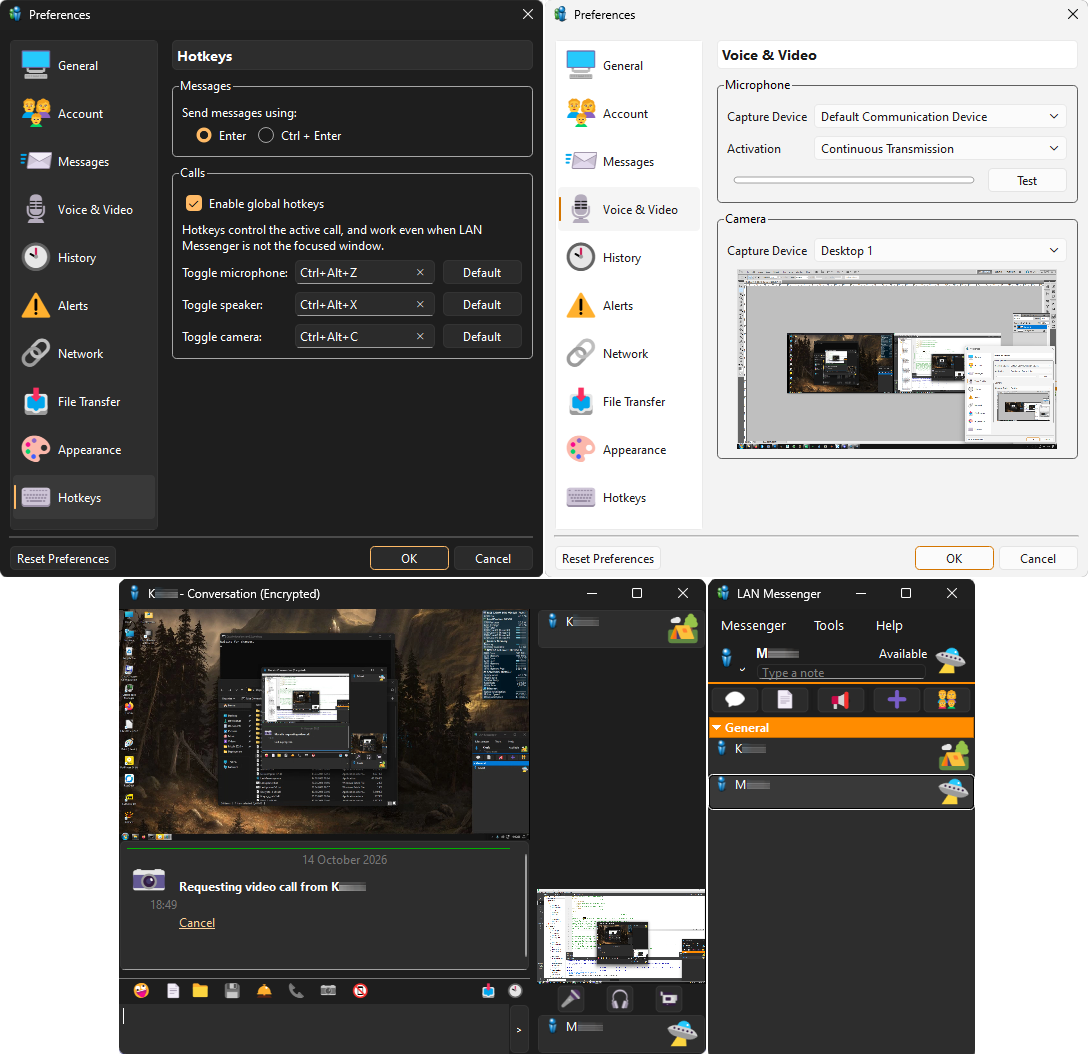
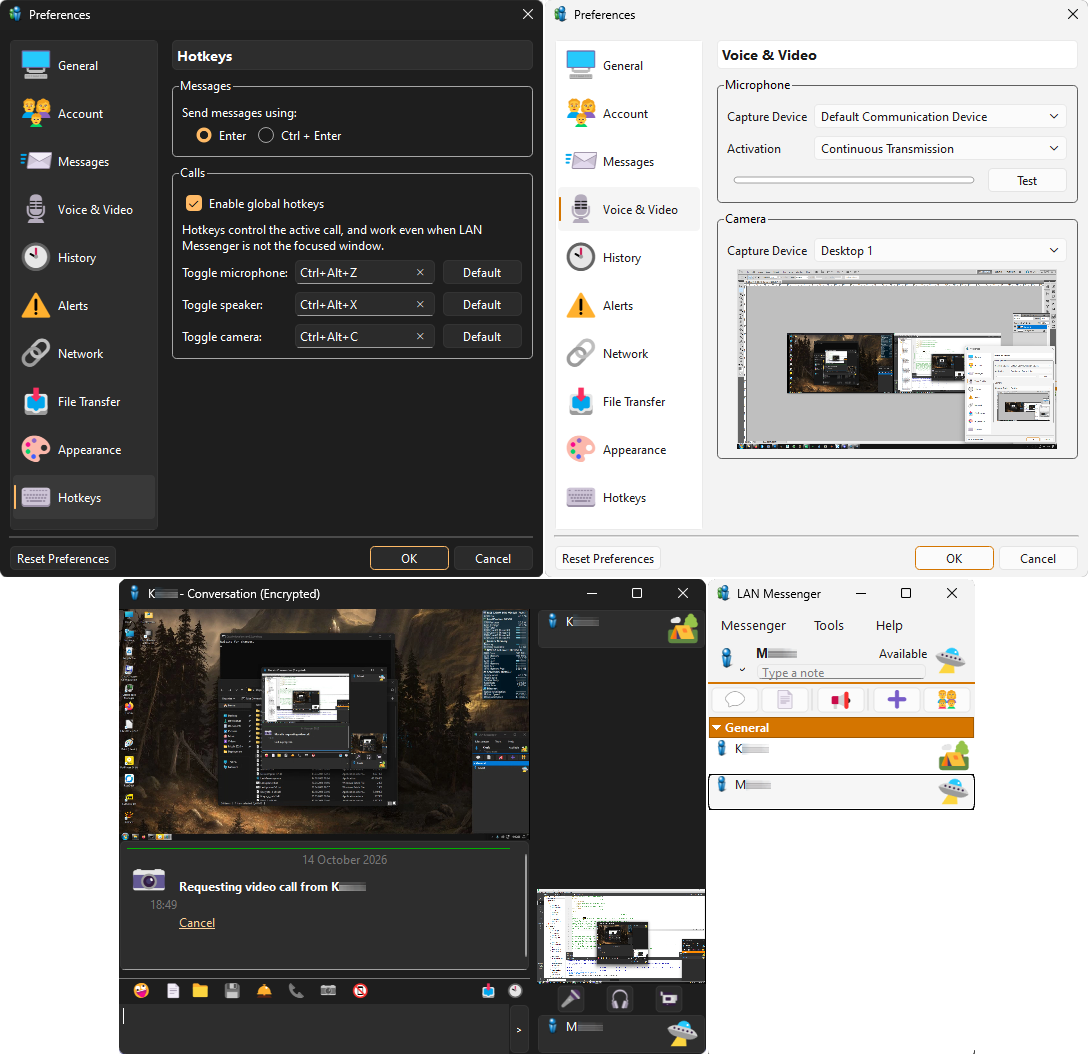
Readme update

Changed region(s): [[0.625, 0.5465, 0.9062, 1.0]]

diff --git a/README.md b/README.md
@@ -4,8 +4,15 @@ Notes
 ===========================
 Project related todo list and known issues are written down in main cmakelists.
 
-I would like to maintain compatibility between this and old versions, while adding more in the future. 
+I would like to maintain compatibility between this and mainline versions, while adding more in the future. 
 
+Tips & Tricks
+============================
+* Wrap UNC paths within quotes if they include spaces: "\\SambaShare\Folder\S p a c e.png"
+* Shift enter always adds a newline regardless of enter/ctrl+enter setting.
+* Writing --, __, == in chat will add a horizontal rule.
+* Pasting image snippets and files into chatbox sends them over.
+* You are not limited to smileys that the program presents you. You can use any unicode emoji.
 
 Why LAN Messenger? (2026)
 ============================
@@ -18,7 +25,7 @@ Why LAN Messenger? (2026)
 * 1 on 1 Encrypted communications.
 * Voice chat. (Opus 96kbps auto, encrypted)
 * Video chat/desktop sharing (VP8 720p 30fps 2000kbps, encrypted)
-* Multi platform (Eventually - older linux & mac versions are compatible.)
+* Multi platform (Eventually - mainline linux & mac versions are compatible.)
 
 User interface
 ============================
@@ -37,4 +44,16 @@ This project was compiled on Windows 11 with;
 * Libvpx (C:\Qt\Tools\libvpx-1.7)
 	* MSYS2 has prebuilt MinGW libvpx https://repo.msys2.org/mingw/mingw64/
 	* find the latest .tar.zst and extract it
+
+
+
+
+
+
+
+
+
+
+
+
 
